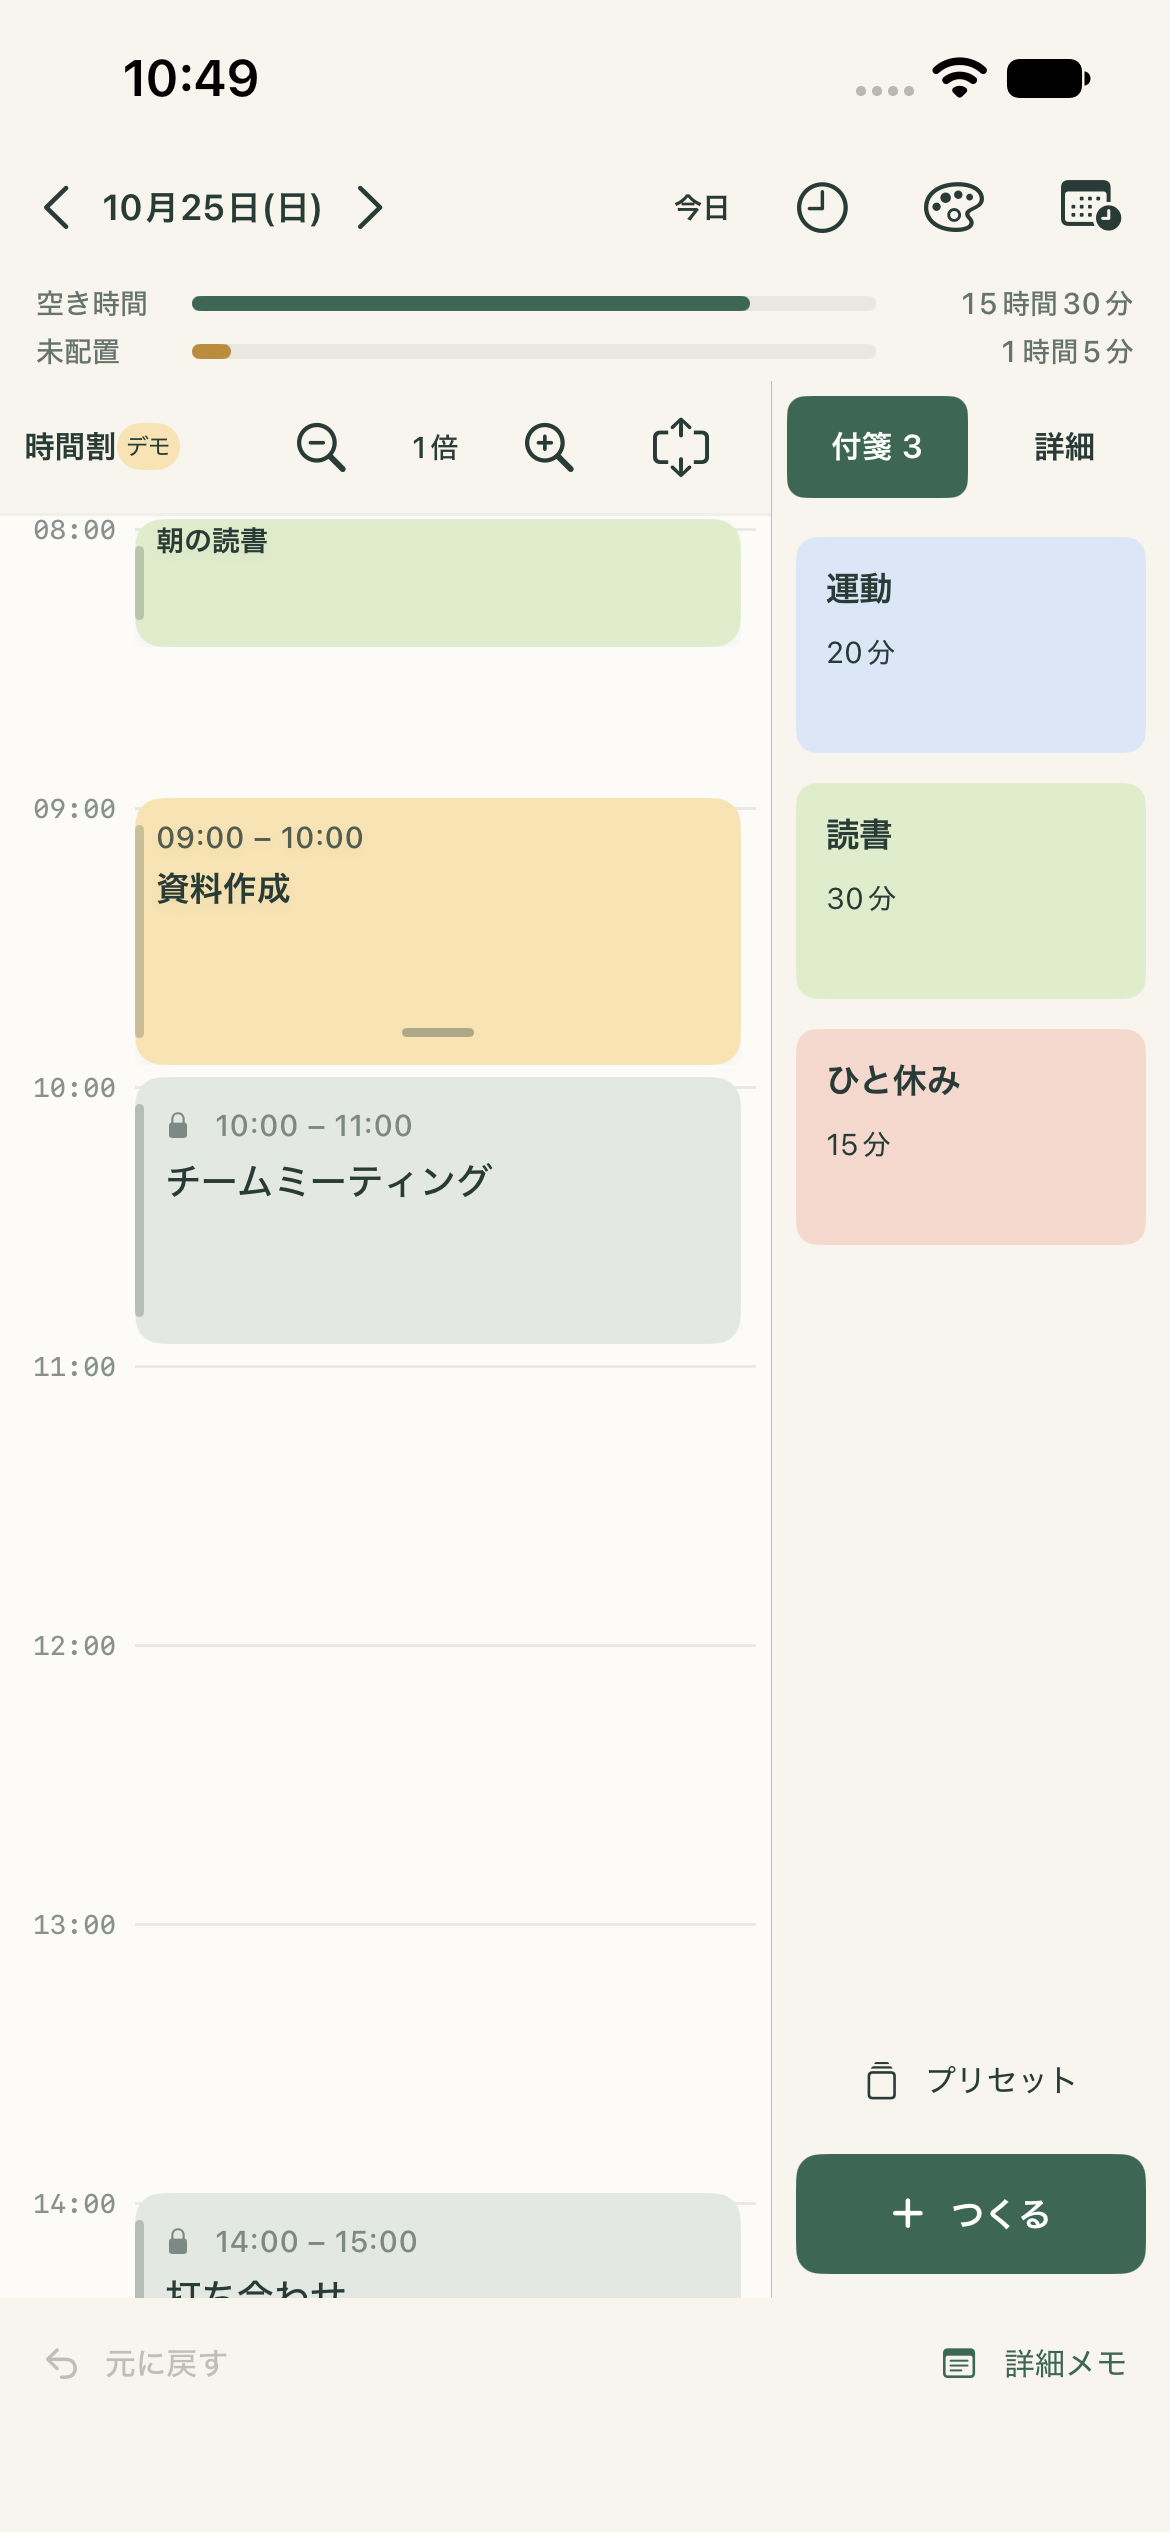
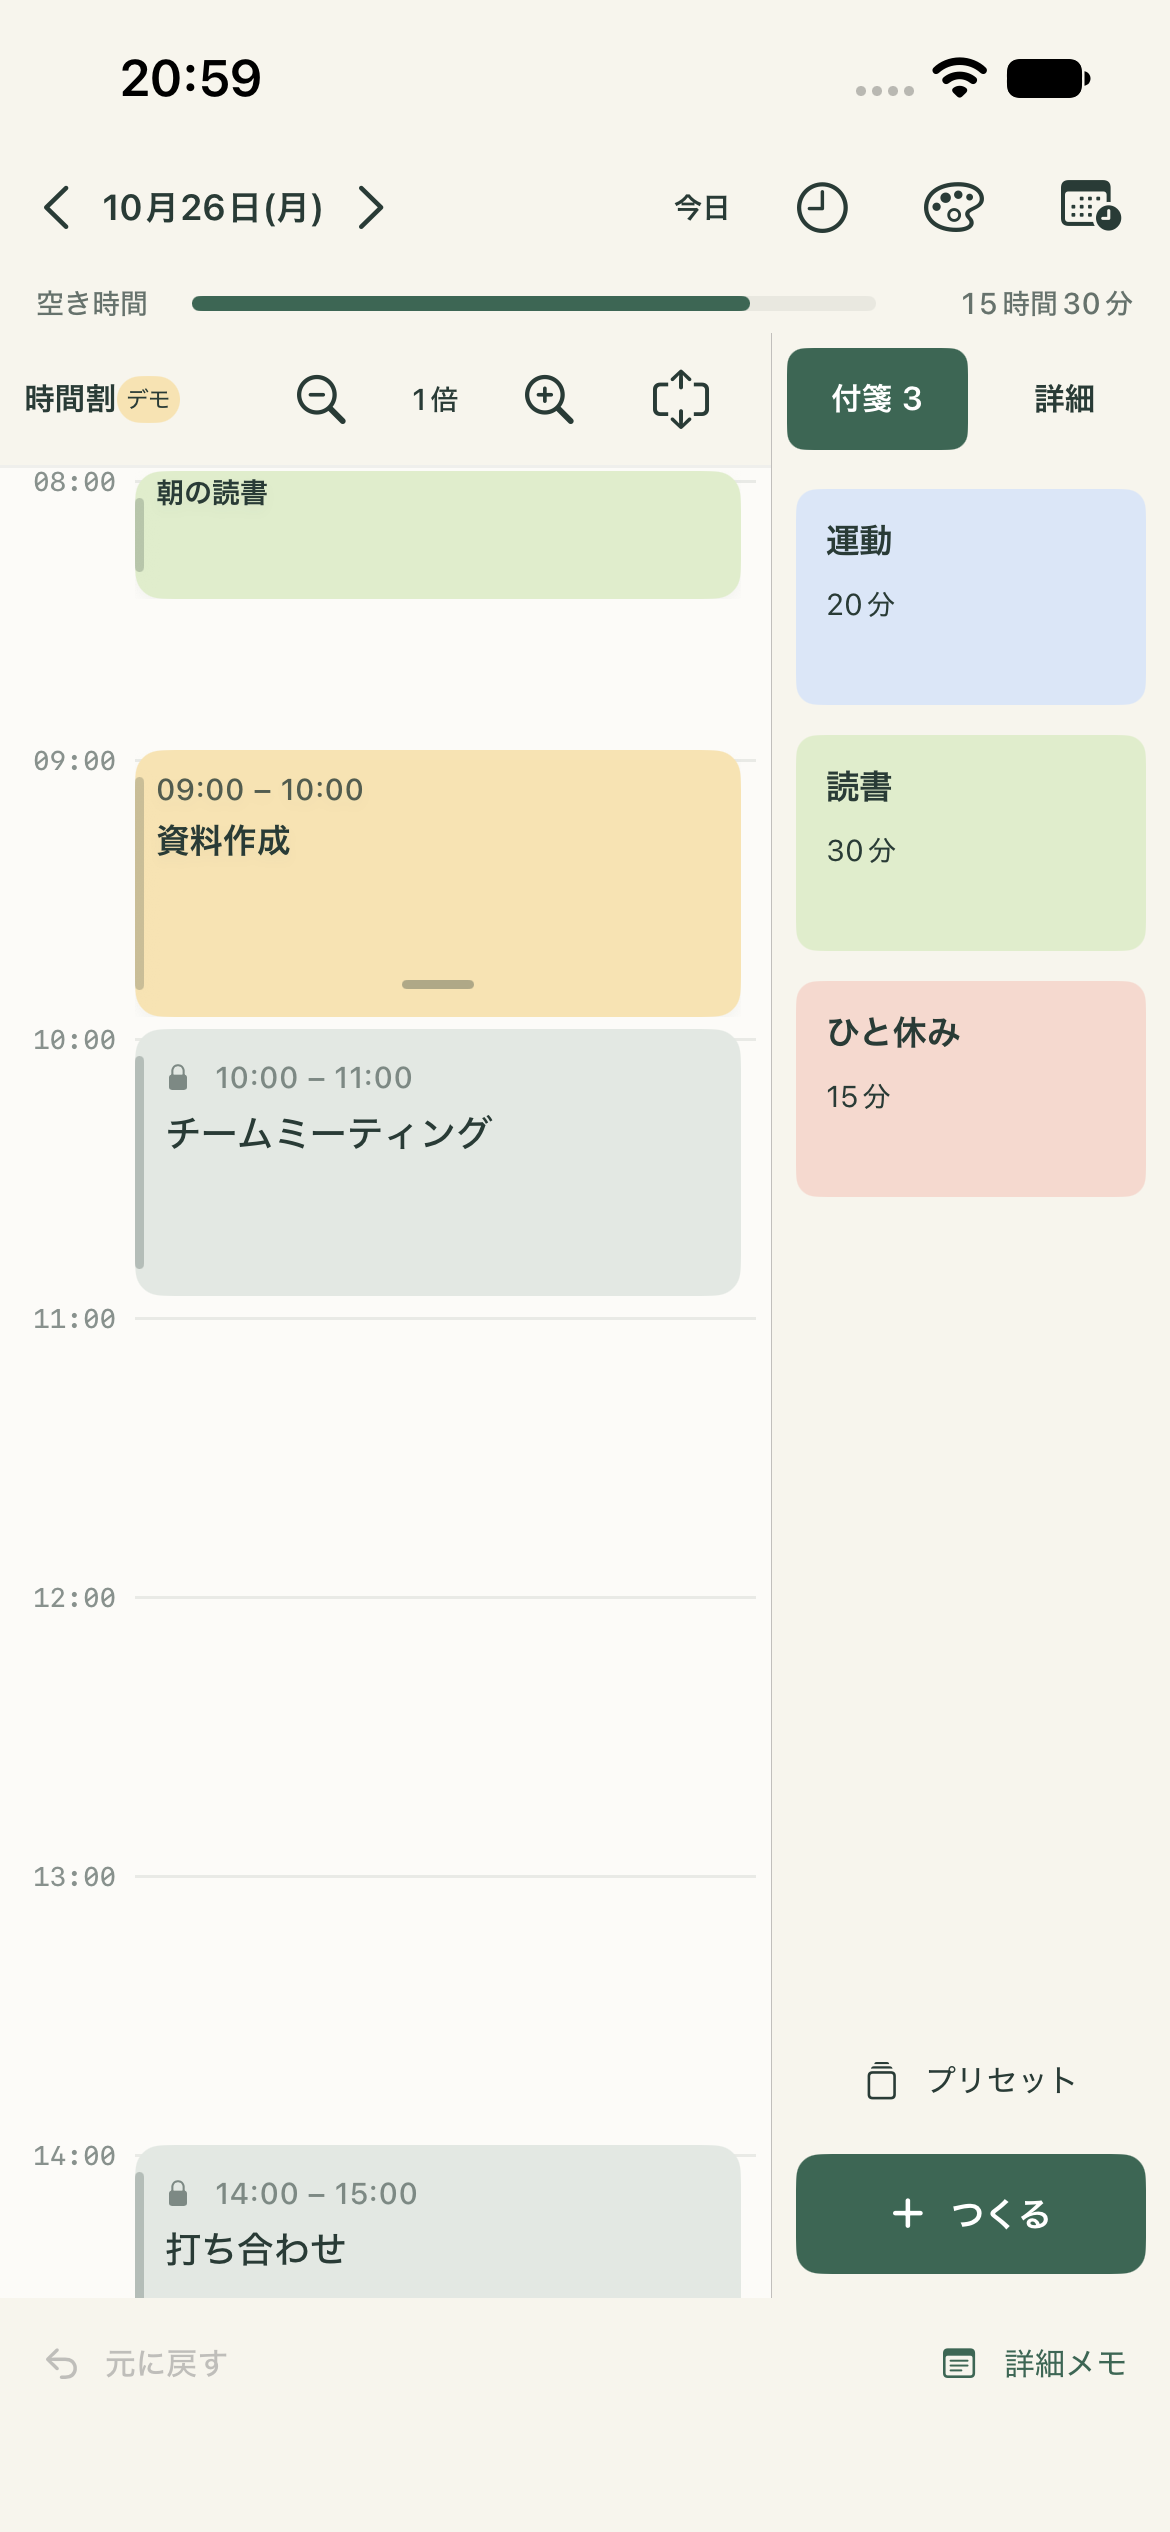
Remove unplaced time from the planner summary

diff --git a/ios/Yoteikan/PlannerView.swift b/ios/Yoteikan/PlannerView.swift
@@ -268,10 +268,8 @@ struct PlannerView: View {
             .accessibilityElement(children: .contain).accessibilityIdentifier("dayNavigation")
     }
     private var stats: some View {
-            VStack(spacing: 4) {
-                timeBar("空き時間", minutes: plans.hours.totalMinutes - occupied, color: accent, identifier: "freeTimeBar")
-                timeBar("未配置", minutes: inbox.reduce(0) { $0 + $1.minutes }, color: Color(red: 0.73, green: 0.55, blue: 0.24), identifier: "unplacedTimeBar")
-            }.padding(.horizontal, 12).padding(.vertical, 4)
+        timeBar("空き時間", minutes: plans.hours.totalMinutes - occupied, color: accent, identifier: "freeTimeBar")
+            .padding(.horizontal, 12).padding(.vertical, 4)
     }
     private func timeBar(_ title: String, minutes: Int, color: Color, identifier: String) -> some View {
         HStack(spacing: 8) {

diff --git a/ios/YoteikanUITests/YoteikanUITests.swift b/ios/YoteikanUITests/YoteikanUITests.swift
@@ -9,7 +9,7 @@ final class YoteikanUITests: XCTestCase {
         launch()
         XCTAssertFalse(app.staticTexts["予定館"].exists)
         XCTAssertEqual(app.descendants(matching: .any).matching(identifier: "freeTimeBar").firstMatch.value as? String, "15時間30分")
-        XCTAssertEqual(app.descendants(matching: .any).matching(identifier: "unplacedTimeBar").firstMatch.value as? String, "1時間5分")
+        XCTAssertFalse(app.descendants(matching: .any).matching(identifier: "unplacedTimeBar").firstMatch.exists)
         XCTAssertLessThan(app.scrollViews["timeline"].frame.minY, app.frame.height * 0.25)
         XCTAssertGreaterThan(app.scrollViews["timeline"].frame.height, app.frame.height * 0.65)
         shot("01-day-planner")

diff --git a/docs/design.md b/docs/design.md
@@ -19,7 +19,7 @@
 | 領域 | 内容 |
 |---|---|
 | ヘッダー | 計画の時間帯、色の名前設定、カレンダー設定、日付切り替え、今日へ戻る |
-| 計画の目安 | 空き時間と未配置時間を2本の横棒と小さな時間表示で表す |
+| 計画の目安 | 空き時間を1本の横棒と小さな時間表示で表す |
 | 終日予定 | 時間割の上部に表示し、空き時間は減らさない |
 | 左：時間割 | 固定予定と配置済み付箋。付箋の高さで所要時間を表す |
 | 中央：詳細メモ | 選択中の付箋のメモ。編集・保存に対応 |
@@ -36,9 +36,9 @@
 
 ## 操作と制約
 
-画面上部にアプリ名の見出しは置かず、時間帯・色・カレンダーの操作を残す。空き時間と未配置時間の棒は、設定した計画時間全体を共通の基準とする。空き時間は固定予定と配置済み付箋の占有時間を差し引き、未配置時間はその日の未配置付箋を合計する。未配置が計画時間を超える場合は棒を全幅で止め、時間の数値は実際の合計を表示する。0分の棒は背景のみとなる。
+画面上部にアプリ名の見出しは置かず、時間帯・色・カレンダーの操作を残す。空き時間の棒は設定した計画時間全体を基準に、固定予定と配置済み付箋の占有時間を差し引く。0分の棒は背景のみとなる。未配置時間の合計は表示せず、付箋の内容と枚数を右の一覧で確認する。
 
-日付移動・今日・時間帯・色・カレンダーを高さ44ポイントの1行にまとめる。曜日は短い表記とし、設定ボタンの円形背景を省く。時間のグラフはその下の2本にまとめ、全日表示は時間割の拡大率操作列へ移す。デモ表記は時間割の見出しに添える。右の付箋／詳細切り替えと同じ高さで操作列を揃え、下部バーも上下余白を減らす。操作を隠すことなくタイムラインの縦幅を確保する。
+日付移動・今日・時間帯・色・カレンダーを高さ44ポイントの1行にまとめる。曜日は短い表記とし、設定ボタンの円形背景を省く。その下に空き時間のグラフを1本表示し、全日表示は時間割の拡大率操作列へ移す。デモ表記は時間割の見出しに添える。右の付箋／詳細切り替えと同じ高さで操作列を揃え、下部バーも上下余白を減らす。操作を隠すことなくタイムラインの縦幅を確保する。
 
 | 操作 | 結果 |
 |---|---|

diff --git a/README.md b/README.md
@@ -8,7 +8,7 @@
 
 - 内容・所要時間・色・メモ付きの付箋を作成。
 - 左の時間割・右の付箋置き場で操作。横画面では中央に詳細メモを表示。
-- 空き時間と未配置時間は、小さな時間表示を添えた横棒グラフで確認。
+- 空き時間は、小さな時間表示を添えた横棒グラフで確認。
 - 日付と設定を1行にまとめ、時間割の表示領域を確保。
 - 色と名前を自由に追加・編集・削除。付箋とプリセットで共通利用。
 - 長押しドラッグで配置し、選択後は右上の↕をドラッグして開始時刻を変更。下端のつまみで延長・短縮。

diff --git a/docs/issues-18-20.md b/docs/issues-18-20.md
@@ -1,0 +1,7 @@
+# Issue #18〜#20
+
+## #18：未配置時間の表示を削除
+
+上部の未配置時間の数値と横棒を削除し、空き時間だけを表示します。未配置の付箋一覧と枚数は引き続き右側で確認できます。不要な1行をなくしてタイムラインを広げます。
+
+2026年10月26日、iPhone 17e / iOS 27シミュレーターのUIテストで、未配置時間の非表示・空き時間・プリセット追加・付箋一覧を確認しました（Issue18.xcresult、1件成功）。実機は未確認です。
